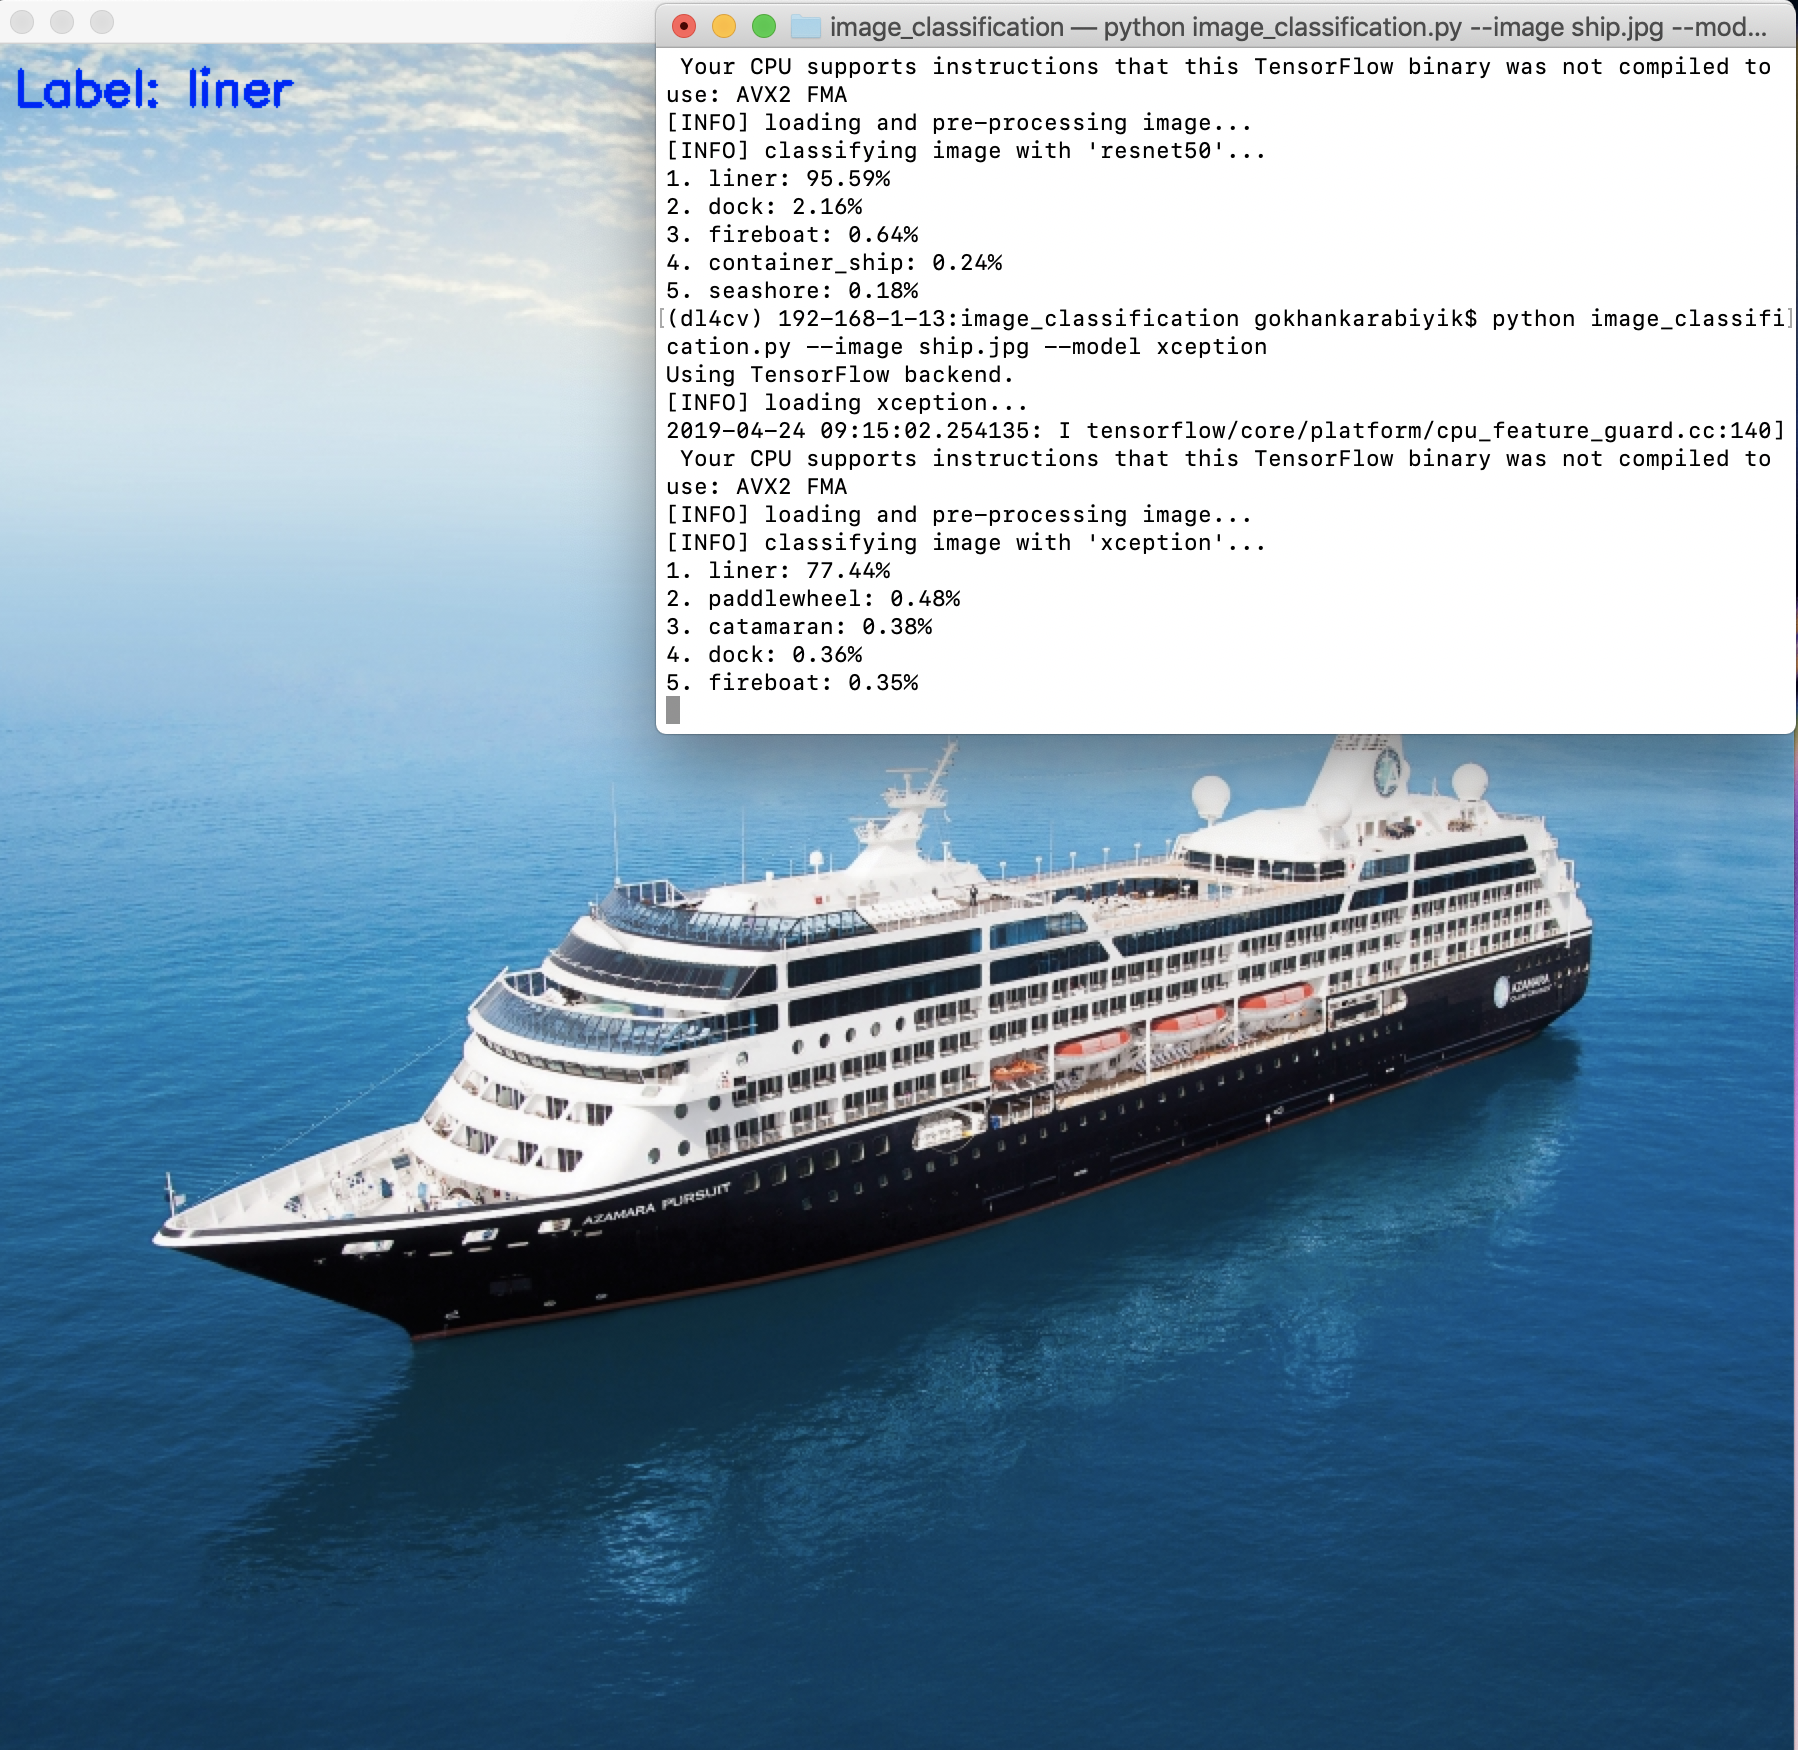
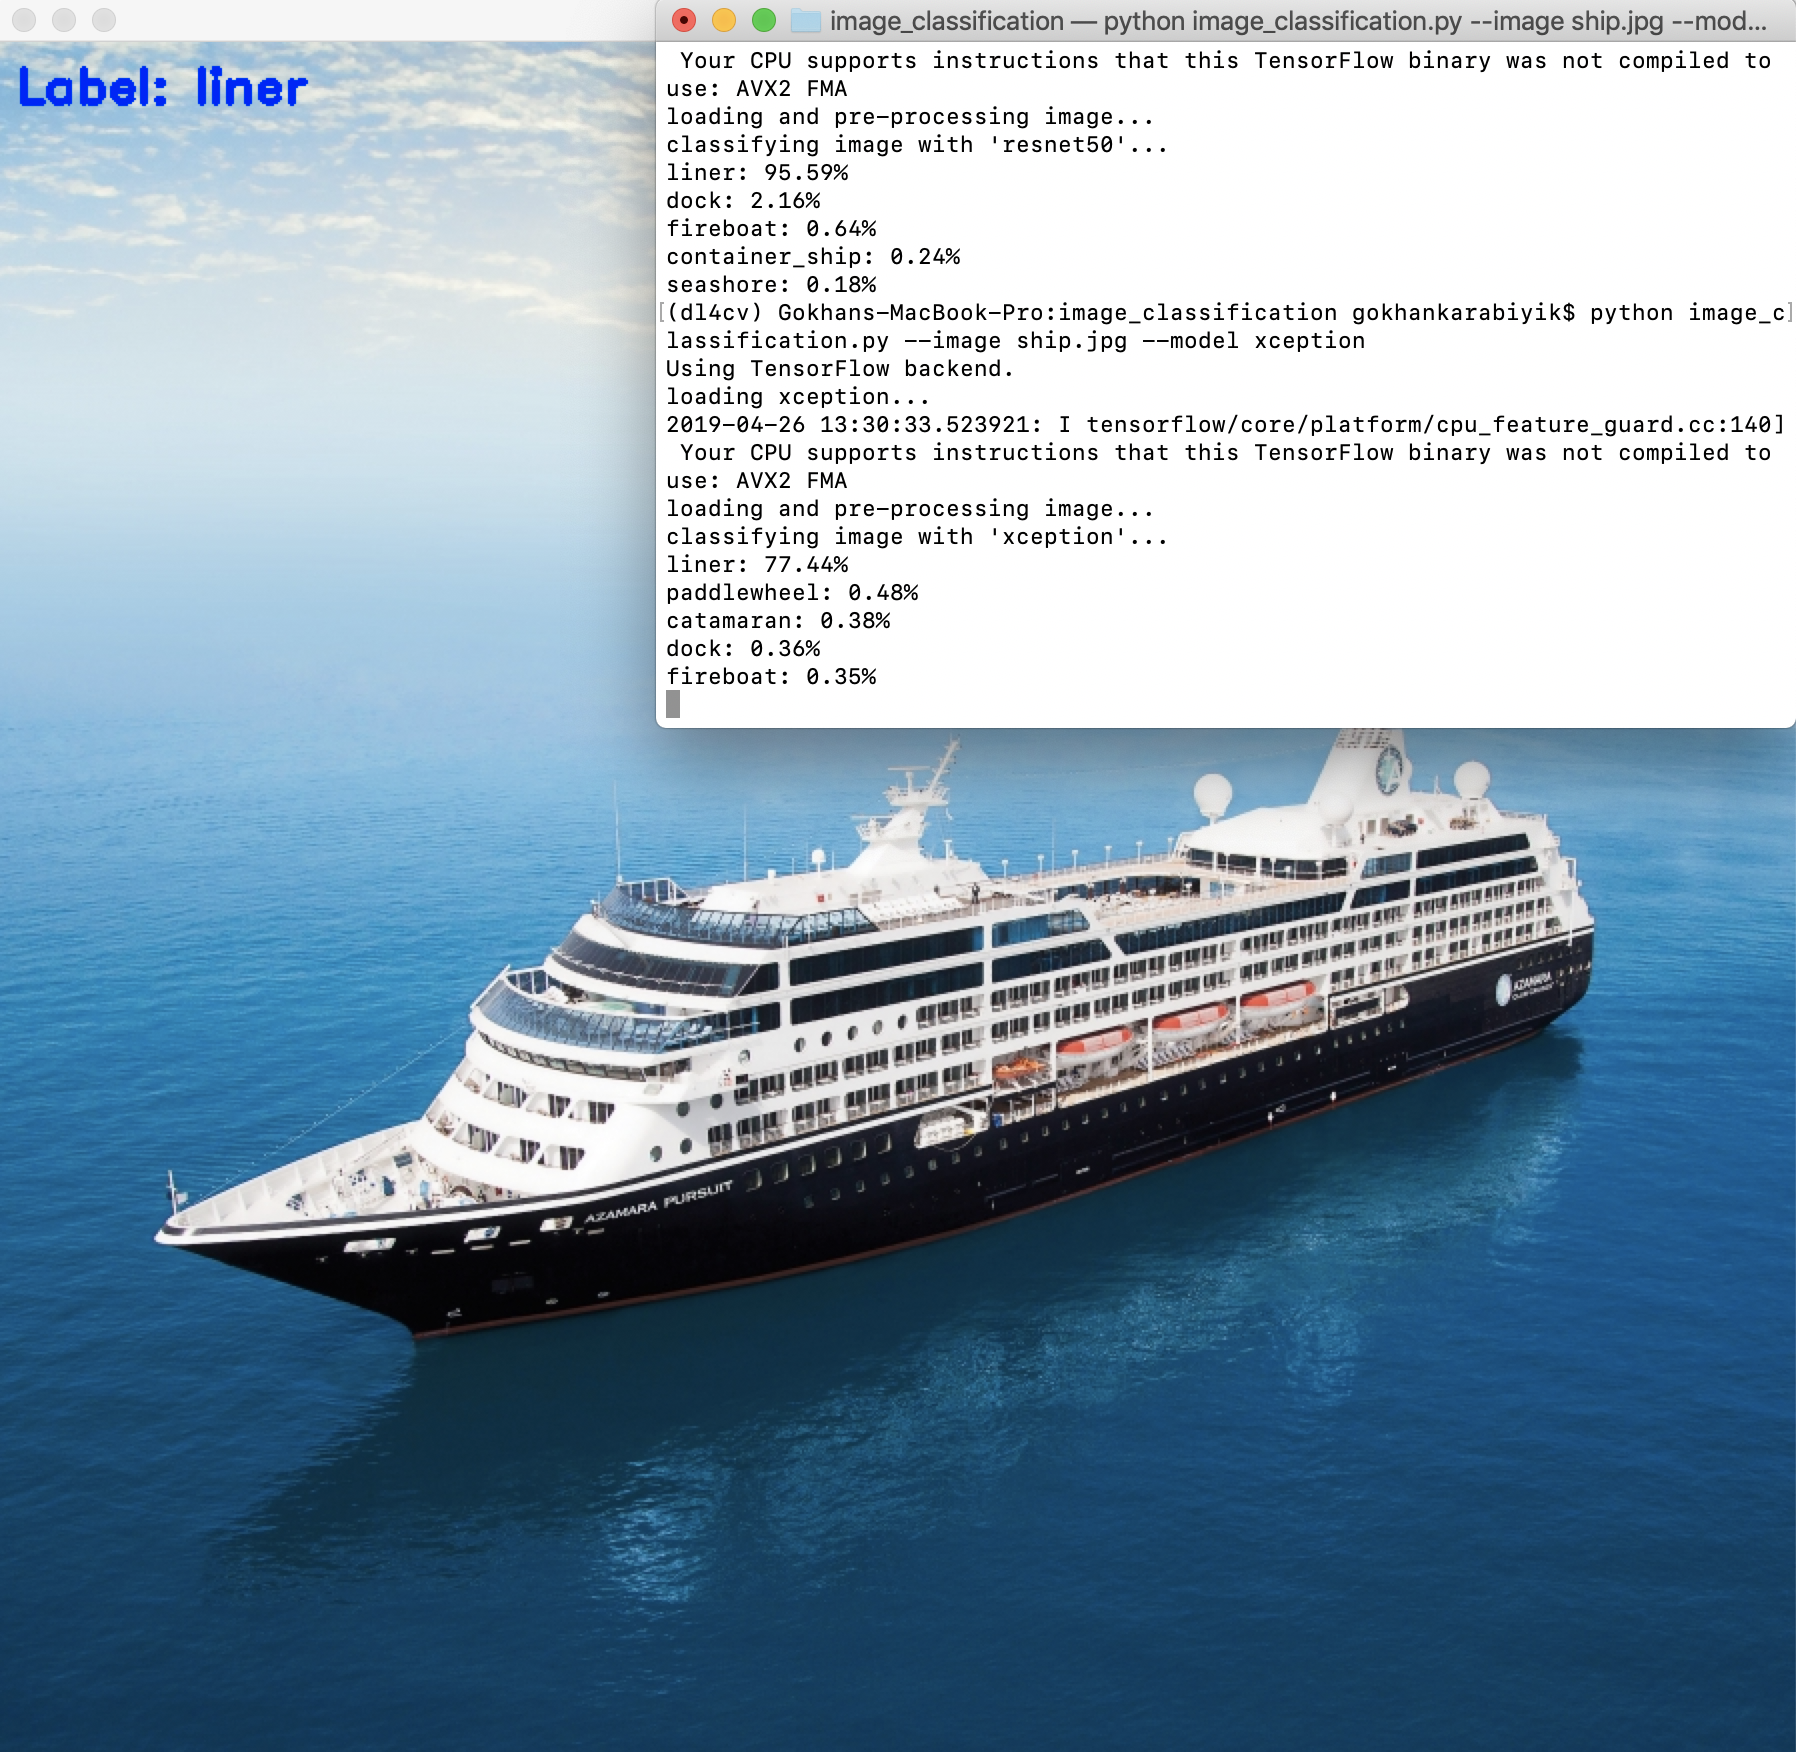
update1

diff --git a/_posts/2019-4-24-Image-Classification.md b/_posts/2019-4-24-Image-Classification.md
@@ -22,7 +22,7 @@ import numpy as np
 import argparse
 from keras.applications import ResNet50
 from keras.applications import InceptionV3
-from keras.applications import Xception # can only be used with Tensorflow backend
+from keras.applications import Xception 
 from keras.applications import VGG19
 from keras.applications import imagenet_utils #to pre-process images and decode outputs
 from keras.applications.inception_v3 import preprocess_input
@@ -32,8 +32,8 @@ from keras.preprocessing.image import load_img
 
 # argument parsers
 ap = argparse.ArgumentParser()
-ap.add_argument("-i", "--image", required=True, help="path to where the image is")
-ap.add_argument("-model", "--model", type=str, default="resnet50", help="name of pre-trained network")
+ap.add_argument("--image", required=True, help="path to where the image is")
+ap.add_argument("--model", type=str, default="resnet50", help="name of pre-trained network")
 args = vars(ap.parse_args())
 
 # create a dictionary that connects model names to their classes for Keras
@@ -43,10 +43,6 @@ MODELS = {
     "inceptionV3": InceptionV3,
     "xception": Xception,
 }
-
-# make sure that the model name is in the list
-if args["model"] not in MODELS.keys():
-    raise AssertionError("The model should be in the pre-defined dictionary")
 
 # the input image shape (224x224 pixels) and pre-processing function
 inputShape = (224, 224)
@@ -61,40 +57,34 @@ if args["model"] in ("inceptionV3", "xception"):
 
 # load the network weights from disk --it may take a while to download
 #if it's first time; then,they will be cached and next runs will be faster
-print("[INFO] loading {}...".format(args["model"]))
+print("loading {}...".format(args["model"]))
 Network = MODELS[args["model"]]
 model = Network(weights="imagenet")
 
-# load the input image
-print("[INFO] loading and pre-processing image...")
+# load the input image and preprocess it
+print("loading and pre-processing image...")
 image = load_img(args["image"], target_size=inputShape)
 image = img_to_array(image)
 
-# now, the input image is a NumPy array of shape (inputShape[0], inputShape[1], 3);however,
-# the dimensions should be extended making the shape (1, inputShape[0], inputShape[1], 3)
-# so that it can be passed through the network
 image = np.expand_dims(image, axis=0)
-
-# pre-process the image with the appropriate function based on the model that has been loaded
 image = preprocess(image)
 
 # classification
-print("[INFO] classifying image with '{}'...".format(args["model"]))
+print("classifying image with '{}'...".format(args["model"]))
 preds = model.predict(image)
 P = imagenet_utils.decode_predictions(preds)
 
-# loop over the predictions and print the rank-5 predictions in terminal
+# loop over the predictions and print the Top-5 predictions in terminal
 for (i, (imagenetID, label, prob)) in enumerate(P[0]):
-    print("{}. {}: {:.2f}%".format(i + 1, label, prob * 100))
+    print("{}: {:.2f}%".format(label, prob * 100))
 
 # load the image, print the first prediction on the image, and display
 orig = cv2.imread(args["image"])
 (imagenetID, label, prob) = P[0][0]
 cv2.putText(orig, "Label: {}".format(label), (10, 30),
-            cv2.FONT_HERSHEY_SIMPLEX, 0.8, (255, 0, 0), 2)
+            cv2.FONT_HERSHEY_DUPLEX, 0.8, (255, 0, 0), 2)
 cv2.imshow("Classification", orig)
 cv2.waitKey(0)
-
 
 
 ```

diff --git a/_posts/2019-4-23-Face-Detection.md b/_posts/2019-4-23-Face-Detection.md
@@ -20,8 +20,8 @@ import argparse
 
 # argument parsers
 ap = argparse.ArgumentParser()
-ap.add_argument("-c", "--cascade", required=True, help="Path to where the face cascade is") #pre-trained face detector provided by OpenCV
-ap.add_argument("-i", "--image", required=True, help="Path to where the image is")
+ap.add_argument("--cascade", required=True, help="Path to where the face cascade is") #pre-trained face detector provided by OpenCV
+ap.add_argument("--image", required=True, help="Path to where the image is")
 args = vars(ap.parse_args())
 
 # load the image and convert it to grayscale
@@ -41,7 +41,7 @@ for (x, y, w, h) in faces:
 print("{} face(s) found".format(len(faces)))
 
 # display the detected faces
-cv2.imshow("Faces", image)
+cv2.imshow("Face Detection", image)
 cv2.waitKey(0)
 
 #Parameters of cv2.CascadeClassifier.detectMultiScale():
@@ -59,3 +59,4 @@ cv2.waitKey(0)
 #capable of running in real-time; but prone to False Positives and parameters can be hard to tune
 
 ```
+*The image was taken from <https://ksassets.timeincuk.net/wp/uploads/sites/55/2017/08/2017_GameOfThrones_HBO_220817-920x584.jpg>
